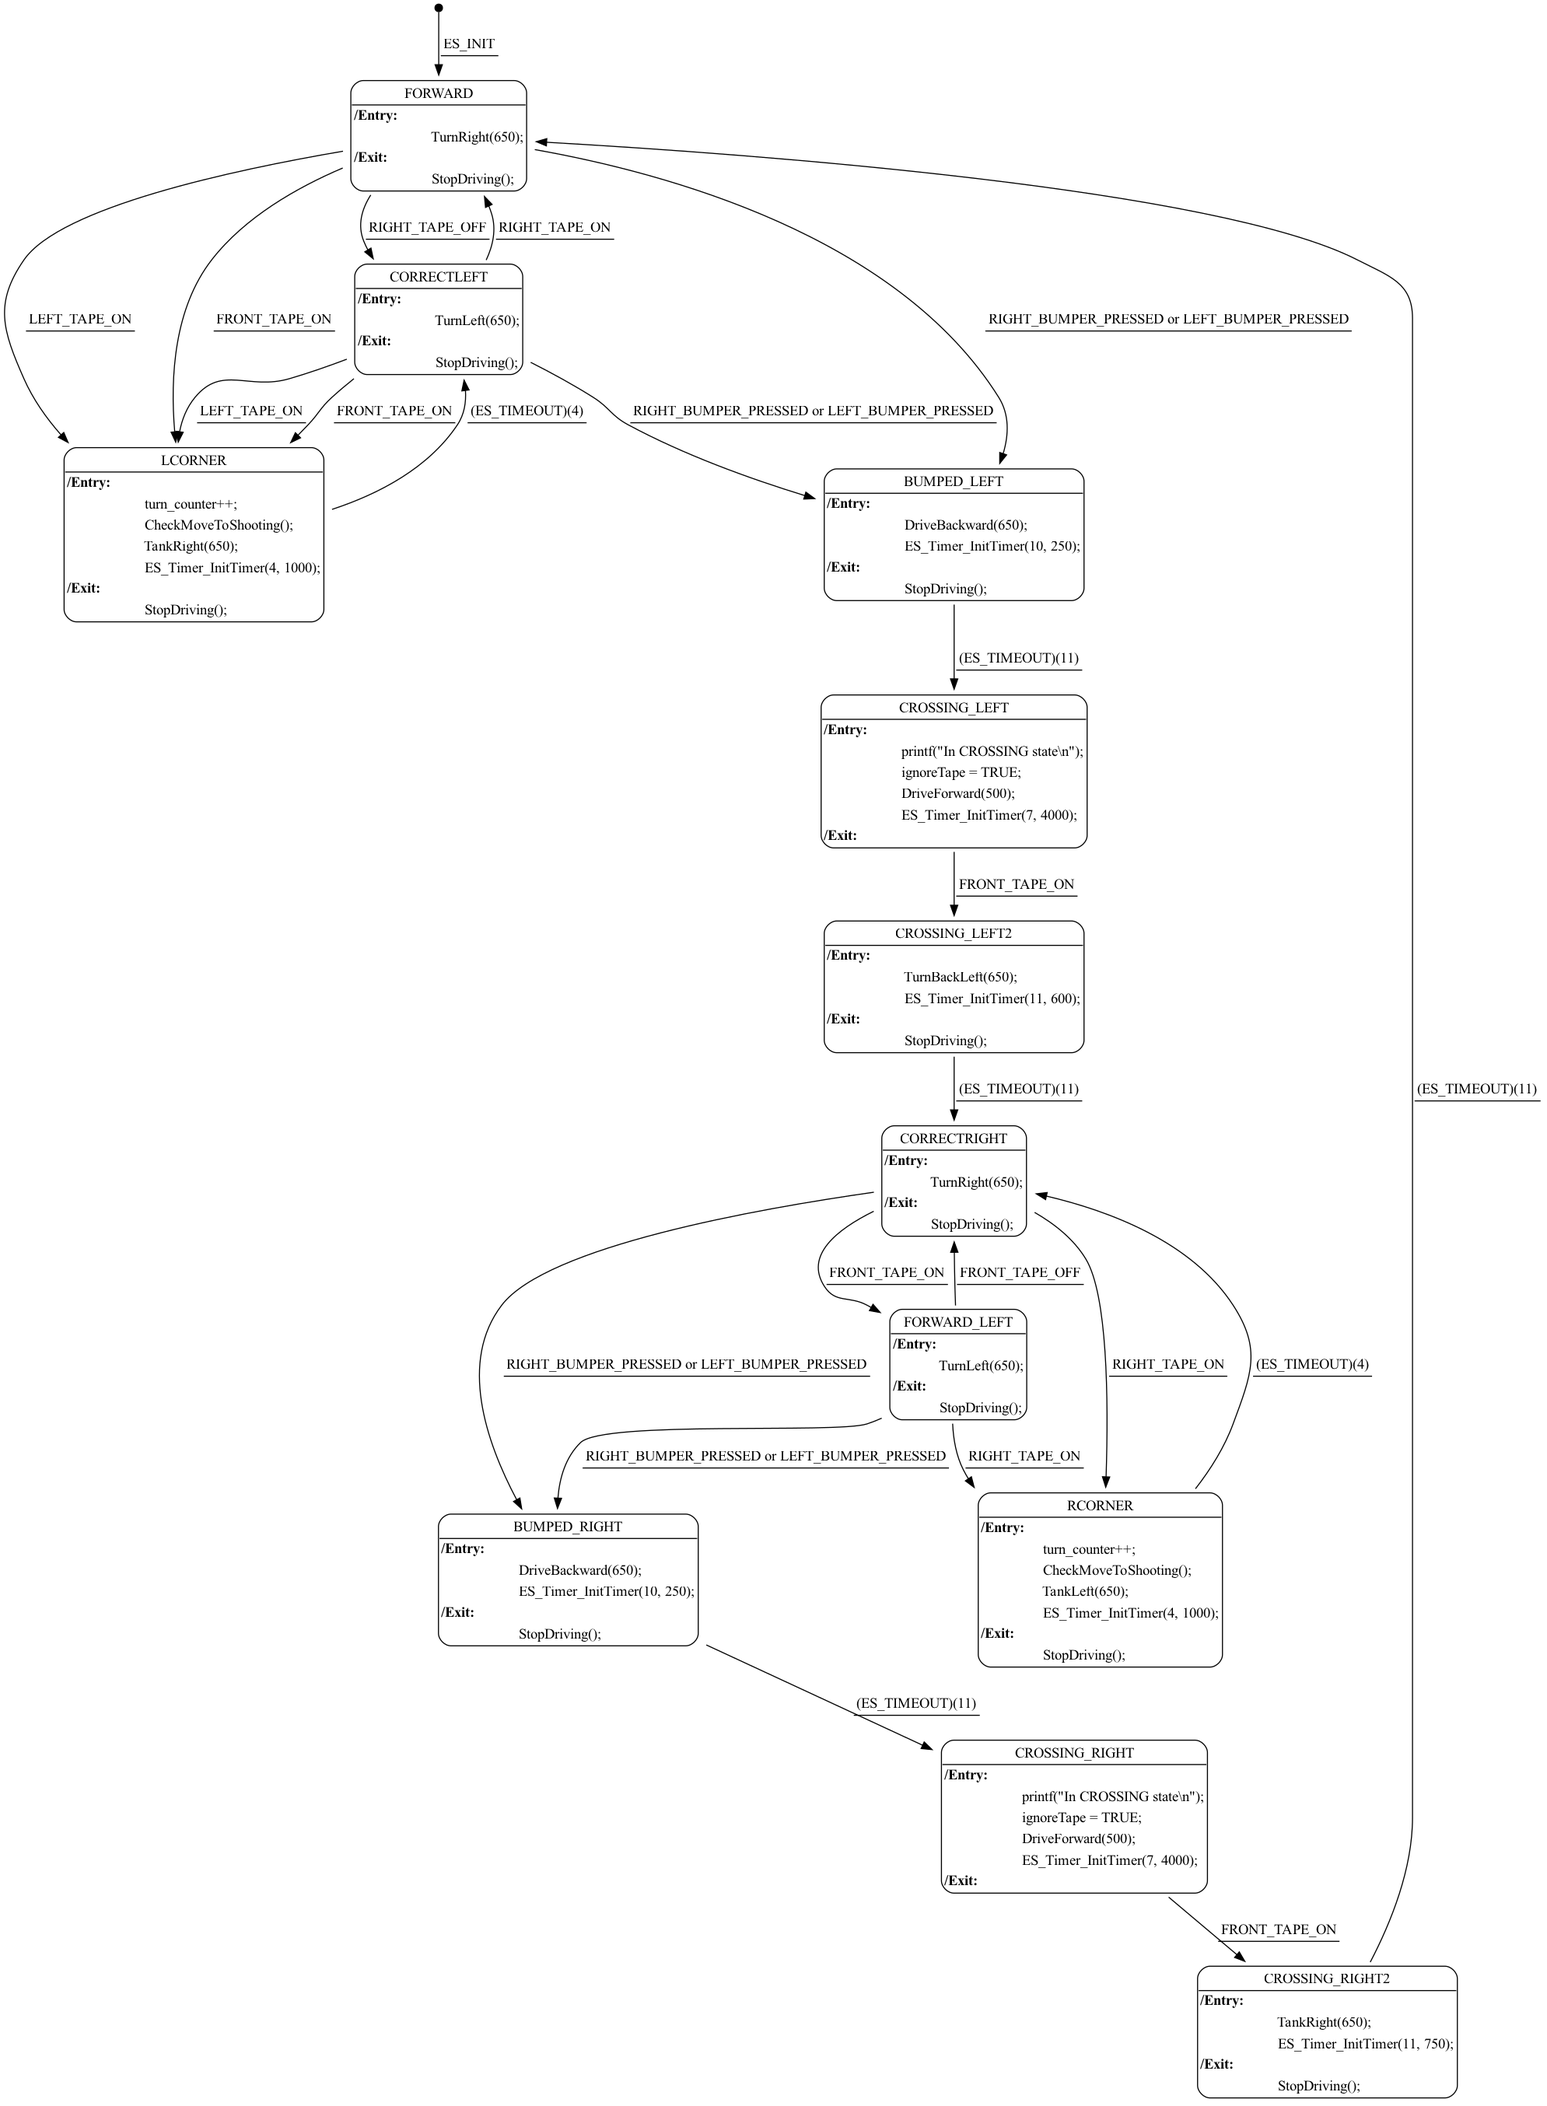
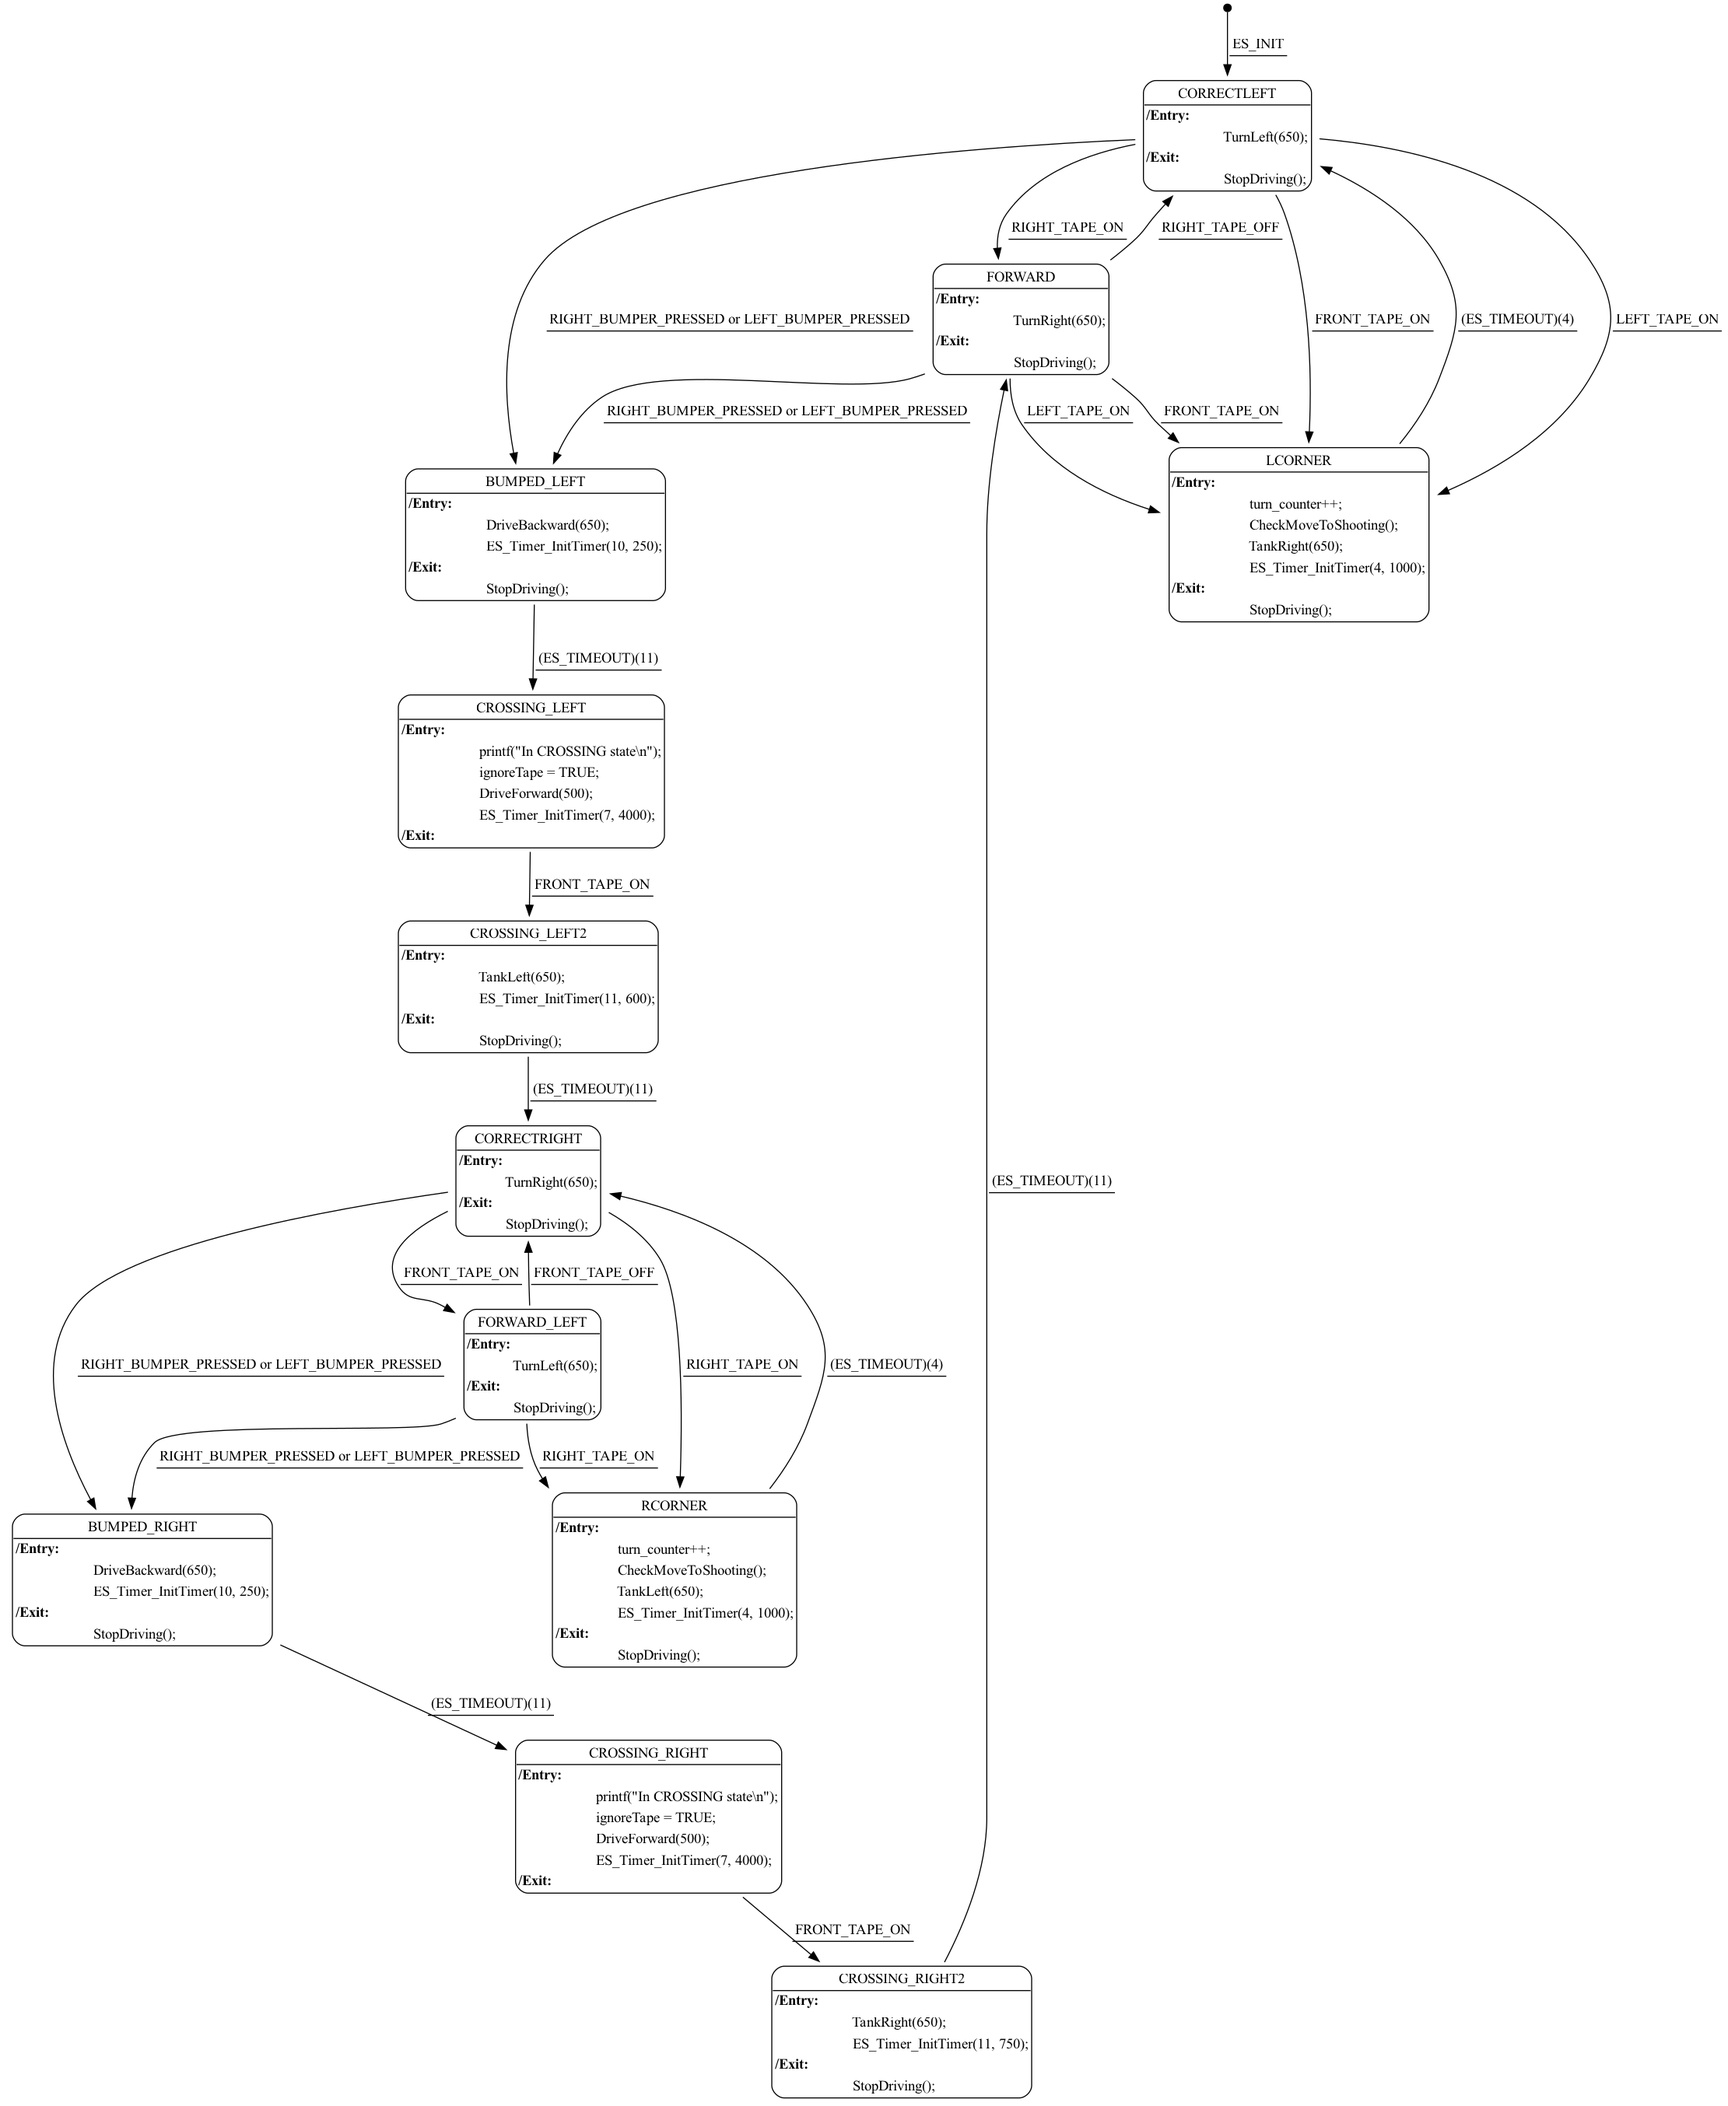
starts, gets to isz, shoots, but off

diff --git a/final.X/StartingSubHSM.c b/final.X/StartingSubHSM.c
@@ -76,7 +76,9 @@ static uint8_t MyPriority;
 #define TIMERSEC 1000
 #define TIMERSEC2 10000
 #define BACKUP_TIMER1 12
+#define TANK_TIMER2 13
 #define BACKUP_TIME 1000
+#define TANK_TIME2 3000
 /*******************************************************************************
  * PUBLIC FUNCTIONS                                                            *
  ******************************************************************************/
@@ -146,63 +148,84 @@ ES_Event RunStartingSubHSM(ES_Event ThisEvent) {
             break;
 
         case Spinning: // in the first state, replace this with appropriate state
-            if (ThisEvent.EventType == ES_ENTRY) {
-                TankRight(500);
-            }
-            if (ThisEvent.EventType == ES_EXIT) {
-                StopDriving();
-            }
-            if (ThisEvent.EventType == BEACON_DETECTED) {
-                nextState = MoveBackward;
-                makeTransition = TRUE;
-                ThisEvent.EventType = ES_NO_EVENT;
-                printf("Spinning to MoveForward\n");
+            switch (ThisEvent.EventType) {
+                case ES_ENTRY:
+                    TankRight(500);
+                    break;
+                case ES_EXIT:
+                    StopDriving();
+                    break;
 
+                case BEACON_DETECTED: 
+                    nextState = MoveBackward;
+                    makeTransition = TRUE;
+                    ThisEvent.EventType = ES_NO_EVENT;
+                    break;
             }
             break;
-        case MoveBackward:
-            if (ThisEvent.EventType == ES_ENTRY) {
-                ES_Timer_InitTimer(BACKUP_TIMER1, BACKUP_TIME);
-                DriveBackward(500);
+        
+        case MoveBackward: // in the first state, replace this with appropriate state
+            switch (ThisEvent.EventType) {
+                case ES_ENTRY:
+                    DriveBackward(500);
+                    ES_Timer_InitTimer(BACKUP_TIMER1, BACKUP_TIME);
+                    break;
+                case ES_EXIT:
+                    StopDriving();
+                    break;
+
+                case ES_TIMEOUT: 
+                    if (ThisEvent.EventParam == BACKUP_TIMER1) {
+                        nextState = MoveForward;
+                        makeTransition = TRUE;
+                        ThisEvent.EventType = ES_NO_EVENT;
+                        break;
+                    }
+                    break;
             }
-            if (ThisEvent.EventType == ES_EXIT) {
-                StopDriving();
-            }
-            if (ThisEvent.EventType == ES_TIMEOUT && ThisEvent.EventParam == BACKUP_TIMER1) {
-                nextState = MoveForward;
-                makeTransition = TRUE;
-                ThisEvent.EventType = ES_NO_EVENT;
-            }
+            break; 
 
         case MoveForward: // in the first state, replace this with appropriate state
-            if (ThisEvent.EventType == ES_ENTRY) {
-                DriveForward(500);
+            switch (ThisEvent.EventType) {
+                case ES_ENTRY:
+                    DriveForward(500);
+                    break;
+                case ES_EXIT:
+                    StopDriving();
+                    break;
+
+                case FRONT_TAPE_ON:
+                case RIGHT_TAPE_ON:
+                case LEFT_TAPE_ON:
+                    // StopDriving();
+                    nextState = Aligned;
+                    makeTransition = TRUE;
+                    ThisEvent.EventType = ES_NO_EVENT;
+                    break;
             }
-            if (ThisEvent.EventType == ES_EXIT) {
-                StopDriving();
-            }
-            if (ThisEvent.EventType == LEFT_TAPE_ON) {
-                nextState = Aligned;
-                makeTransition = TRUE;
-                ThisEvent.EventType = ES_NO_EVENT;
-            }
-            break;
-        case Aligned:
-            if (ThisEvent.EventType == ES_ENTRY) {
-                TankLeft(500);
-            }
-            if (ThisEvent.EventType == RIGHT_TAPE_ON) {
-                // StopDriving(); 
-               ES_Event moveEvent;
-               moveEvent.EventType = MOVE_TO_LOCATE;
-               moveEvent.EventParam = 0;
-               PostBotHSM(moveEvent);
-            }
-            if (ThisEvent.EventType == ES_EXIT) {
-                StopDriving();
-            }
-            break;
+            break; 
             
+        case Aligned: // in the first state, replace this with appropriate state
+            switch (ThisEvent.EventType) {
+                case ES_ENTRY:
+                    TankLeft(500);
+                    ES_Timer_InitTimer(TANK_TIMER2, TANK_TIME2);
+                    break;
+                case ES_EXIT:
+                    StopDriving();
+                    break;
+
+                case ES_TIMEOUT: 
+                    if (ThisEvent.EventParam == TANK_TIMER2) {
+                        // StopDriving();
+                        ES_Event moveEvent;
+                        moveEvent.EventType = MOVE_TO_LOCATE;
+                        moveEvent.EventParam = 0;
+                        PostBotHSM(moveEvent);
+                    }
+                    break;
+            }
+            break; 
         default: // all unhandled states fall into here
             break;
     } // end switch on Current State

diff --git a/final.X/BotHSM.c b/final.X/BotHSM.c
@@ -144,11 +144,11 @@ ES_Event RunBotHSM(ES_Event ThisEvent) {
                 // transition from the initial pseudo-state into the actual
                 // initial state
                 // Initialize all sub-state machines
-                // InitStartingSubHSM();
+                InitStartingSubHSM();
                 //InitInISZSubHSM();
-                InitLocateISZSubHSM();
+                // InitLocateISZSubHSM();
                 // now put the machine into the actual initial state
-                nextState = LocateISZ;
+                nextState = Starting;
                 makeTransition = TRUE;
                 ThisEvent.EventType = ES_NO_EVENT;
                 ;
@@ -180,10 +180,11 @@ ES_Event RunBotHSM(ES_Event ThisEvent) {
             ThisEvent = RunLocateISZSubHSM(ThisEvent);
             switch (ThisEvent.EventType) {
                 case MOVE_TO_SHOOTING:
+                    InitInISZSubHSM();
                     nextState = InISZ;
                     makeTransition = TRUE;
                     ThisEvent.EventType = ES_NO_EVENT;
-                //     break;
+                    break;
                 case ES_EXIT:
                     break;
                 case ES_NO_EVENT:
@@ -196,7 +197,6 @@ ES_Event RunBotHSM(ES_Event ThisEvent) {
             // run sub-state machine for this state
             //NOTE: the SubState Machine runs and responds to events before anything in the this
             //state machine does
-            
             ThisEvent = RunInISZSubHSM(ThisEvent);
             switch (ThisEvent.EventType) {
                 case ES_NO_EVENT:

diff --git a/final.X/ES_Configure.h b/final.X/ES_Configure.h
@@ -144,7 +144,7 @@ static const char *EventNames[] = {
 #define TIMER10_RESP_FUNC PostBotHSM
 #define TIMER11_RESP_FUNC PostBotHSM
 #define TIMER12_RESP_FUNC PostBotHSM
-#define TIMER13_RESP_FUNC TIMER_UNUSED
+#define TIMER13_RESP_FUNC PostBotHSM
 #define TIMER14_RESP_FUNC TIMER_UNUSED
 #define TIMER15_RESP_FUNC TIMER_UNUSED
 
@@ -162,6 +162,7 @@ static const char *EventNames[] = {
 #define BACKUP_TIMER 10
 #define TANK_OBSTACLE 11
 #define BACKUP_TIMER1 12
+#define TANK_TIMER2 13
 
 
 /****************************************************************************/

diff --git a/final.X/LocateISZSubHSM.c b/final.X/LocateISZSubHSM.c
@@ -164,7 +164,7 @@ ES_Event RunLocateISZSubHSM(ES_Event ThisEvent) {
         case InitPSubState:
             turn_counter = 0;
             if (ThisEvent.EventType == ES_INIT) {
-                nextState = FORWARD;
+                nextState = CORRECTLEFT;
                 makeTransition = TRUE;
                 ThisEvent.EventType = ES_NO_EVENT;
             }
